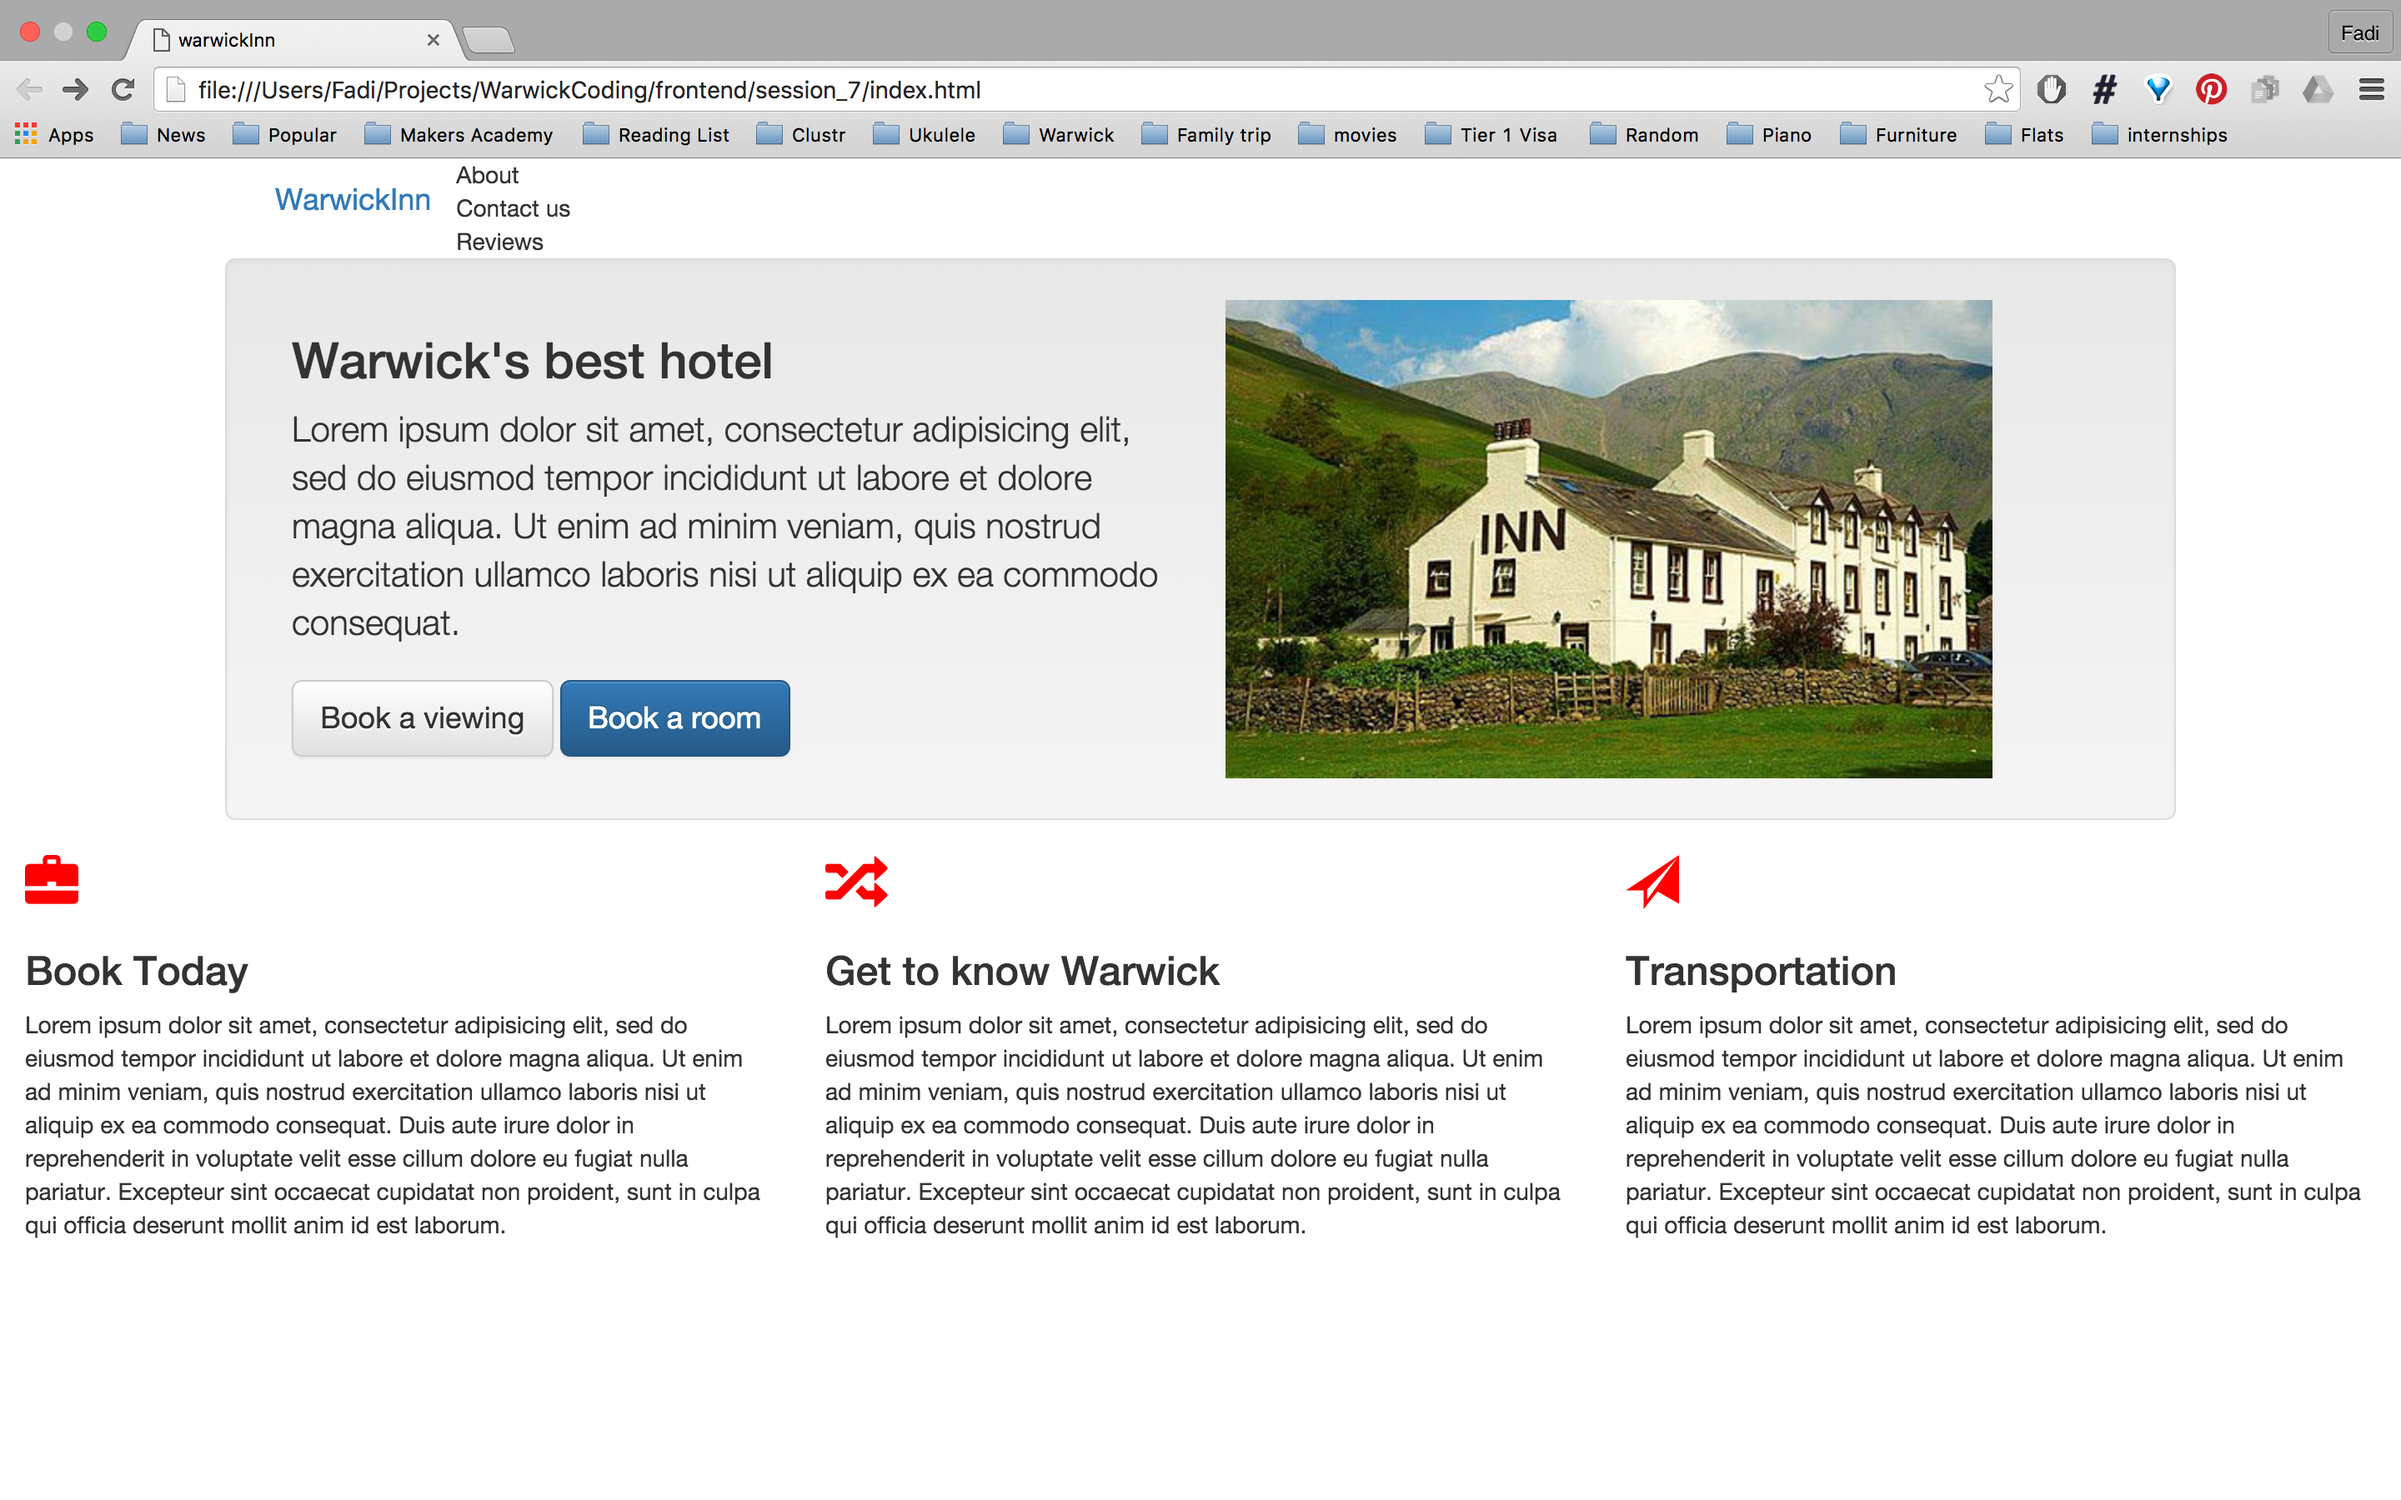
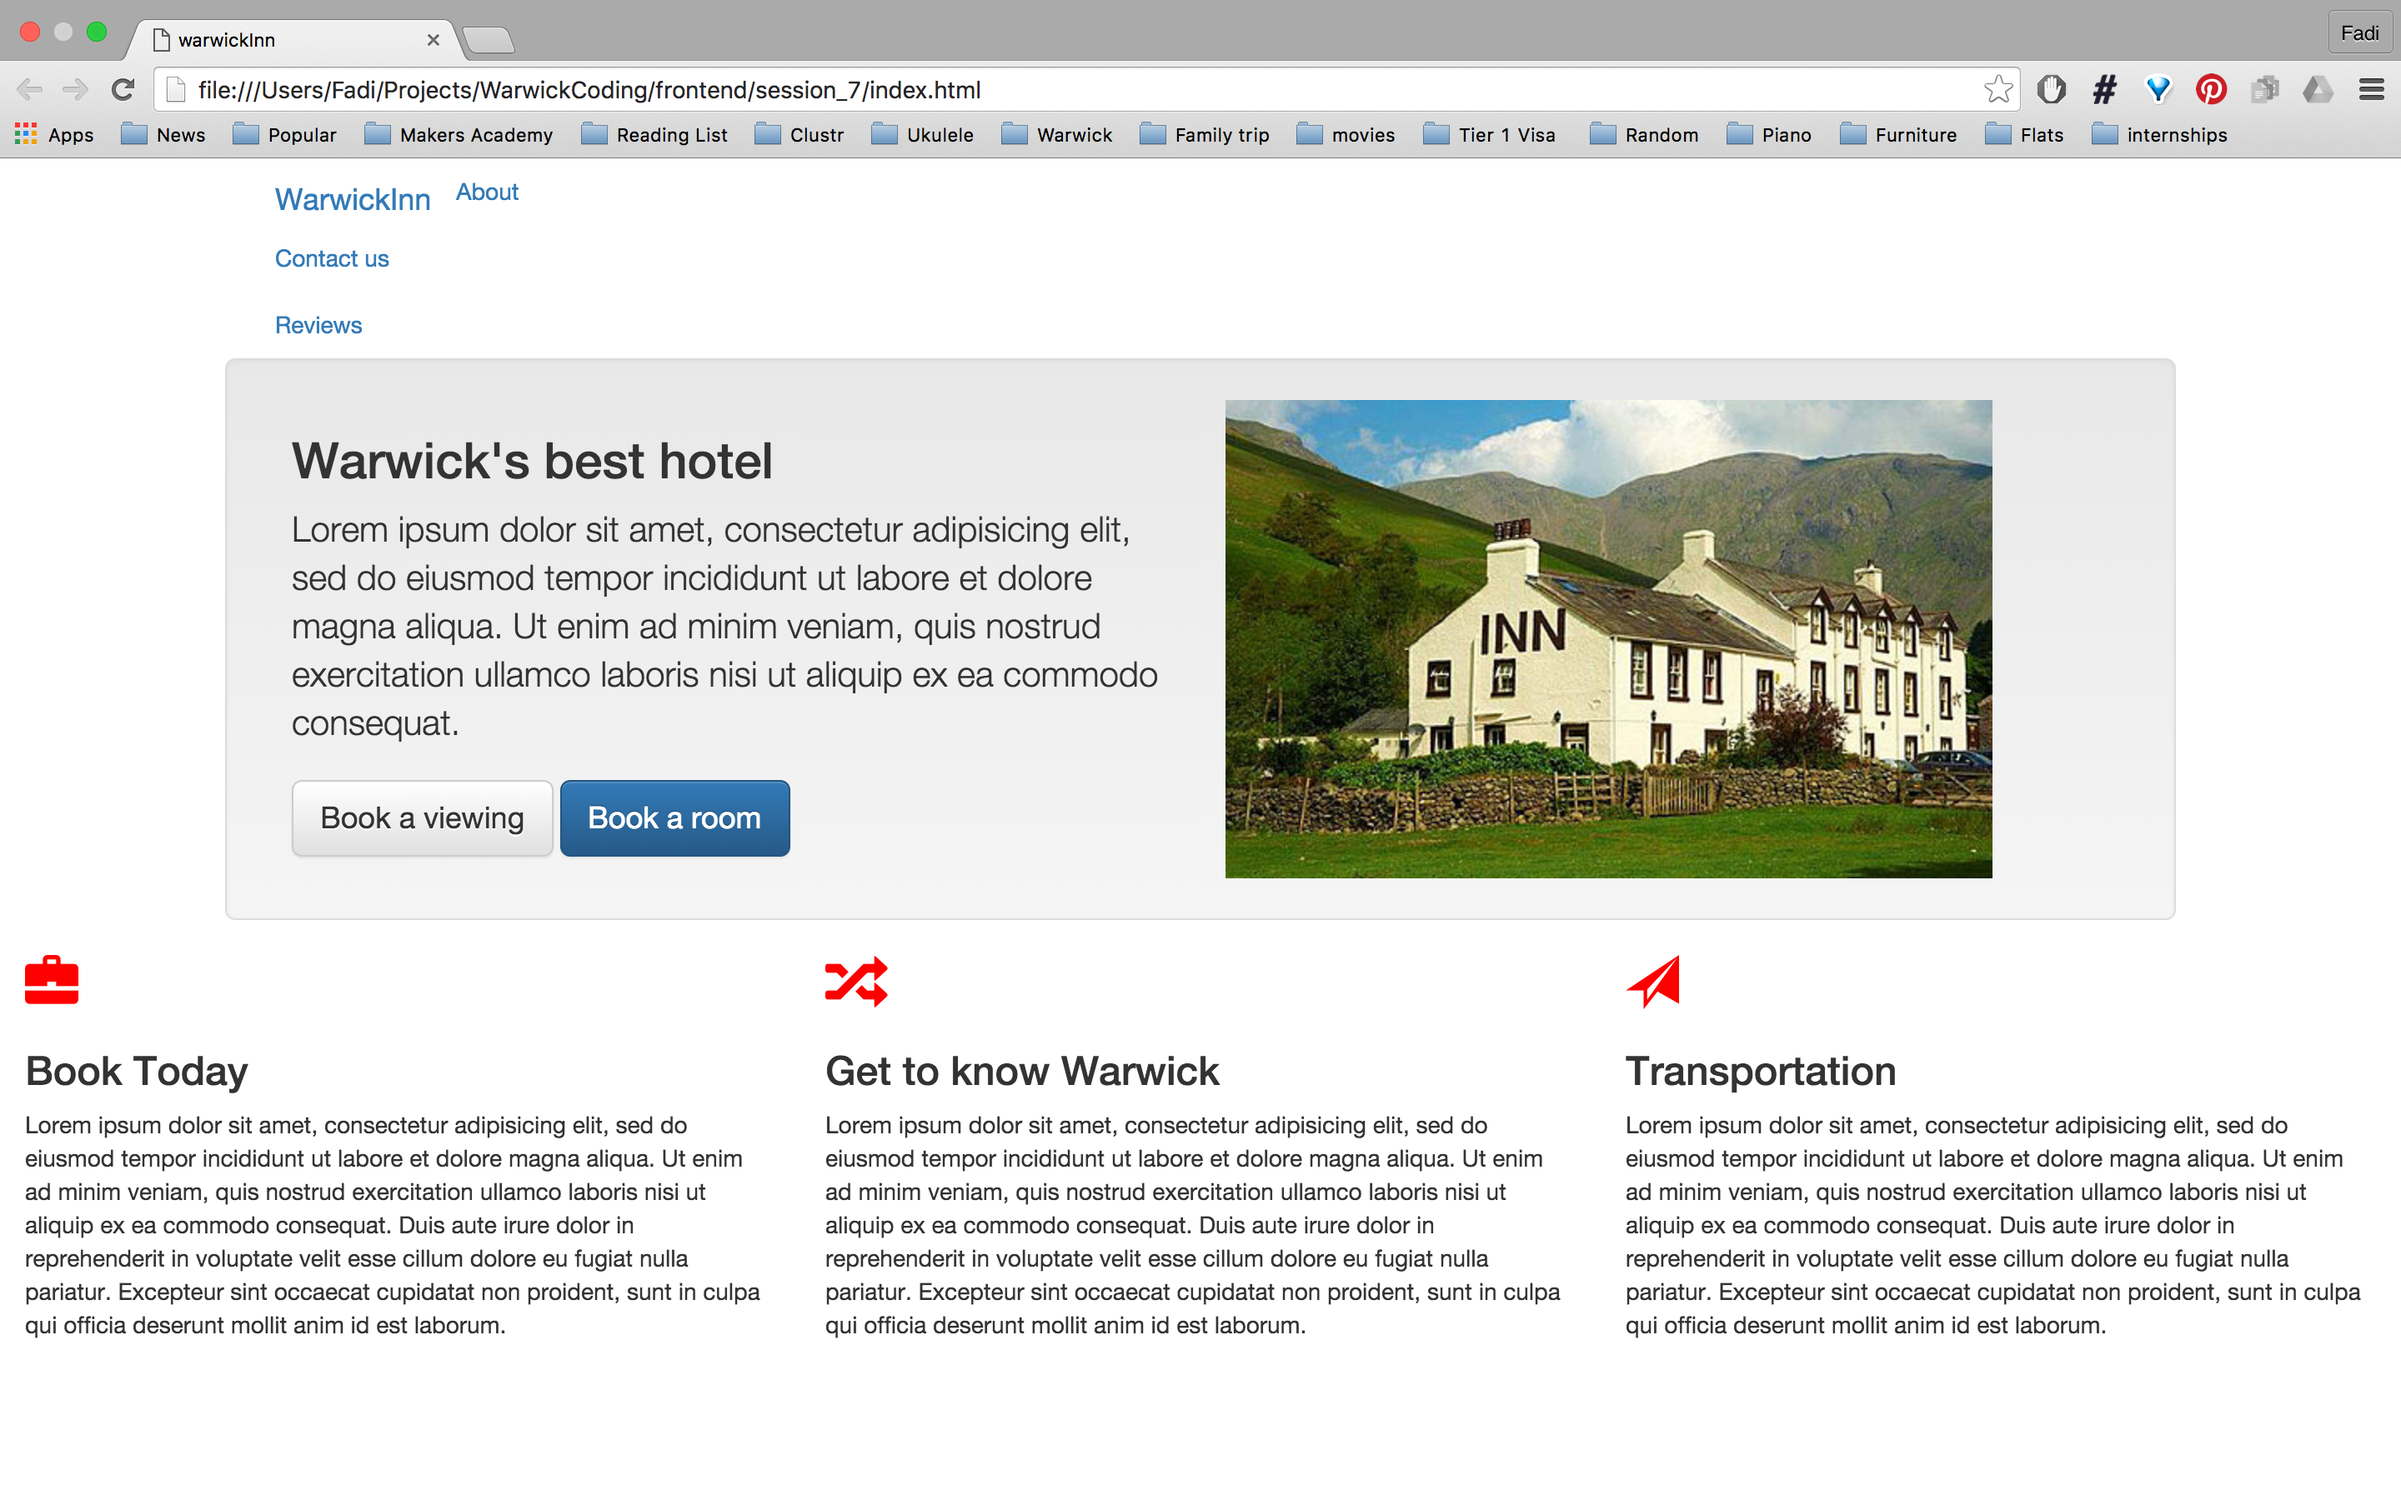
Added navbar section

diff --git a/session_7/index.html b/session_7/index.html
@@ -15,7 +15,7 @@
   <body>
       <div class="container navbar navbar-default">
             <a class="navbar-brand" href="" > WarwickInn </a>
-            <ul class="nav navbar-nav navbar-right">
+            <ul class="nav nav-pills navbar-right">
               <li><a href="">About</a></li>
               <li><a href="">Contact us</a></li>
               <li><a href="">Reviews</a></li>

diff --git a/session_7/README.md b/session_7/README.md
@@ -426,11 +426,11 @@ Nav Bar
 
 ```
 <div class="container">
-      <a href="" class="navbar-brand"> WarwickInn </a>
-      <ul>
-        <li href="about.html">About</li>
-        <li href="contact.html">Contact us</li>
-        <li href="review.html">Reviews</li>
+      <a class="navbar-brand" href="" > WarwickInn </a>
+      <ul class="">
+        <li><a href="">About</a></li>
+        <li><a href="">Contact us</a></li>
+        <li><a href="">Reviews</a></li>
       </ul>
 </div>
 ```
@@ -445,5 +445,22 @@ Nav Bar
 
 - We got rid of the bullet points but we still have the links in a list rather on the same line. To do that just like we did with the glyphicon class we need to add another class of ```nav-pills``` to the class of ```nav```
 
+![21](../images/session_7/frontend_session_7-21.png)
+
+- Our navbar is slowly taking shape, now all we need to do is to push the links to the right. to do that we need to add the class of ```navbar-right``` to our ```ul``` element.
+
+![22](../images/session_7/frontend_session_7-22.png)
+
+- Great, we are nearly done we just need to give our navbar a little shadow, to do that we add ```navbar``` and ```navbar-default```to our container class.
+
+![23](../images/session_7/frontend_session_7-23.png)
+
+- WOHOO !! It's done, hope you have enjoyed the tutorial and don't forget to go through the exercises.
+
 Exercises
 ---------
+1. Create a footer for our website. Check out the Bootstrap documentation to see how to do it.
+
+2. Go to the documentation and try to use as many Bootstrap components as you can.
+
+3. Redo the web page from the previous session using Bootstrap
